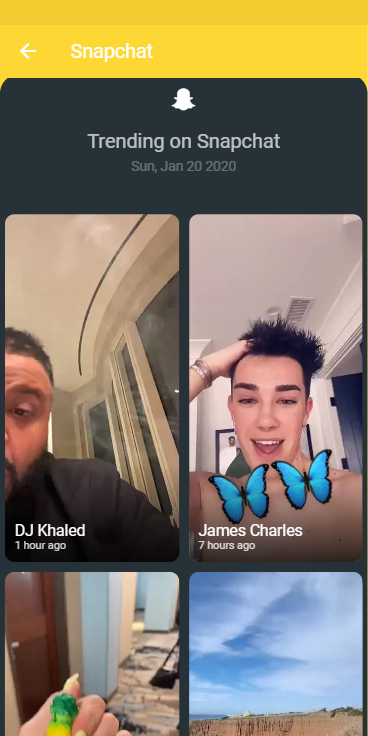
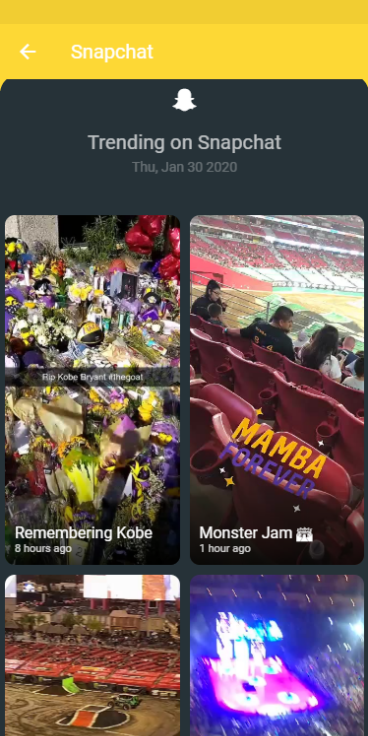
Updated screenshots

diff --git a/README.md b/README.md
@@ -82,6 +82,7 @@
 <img src=".github/images/screenshot3.png" alt="Screenshot" width="250">
 <img src=".github/images/screenshot4.png" alt="Screenshot" width="250">
 <img src=".github/images/screenshot5.png" alt="Screenshot" width="250">
+<img src=".github/images/screenshot6.png" alt="Screenshot" width="250">
 
 ---
 
